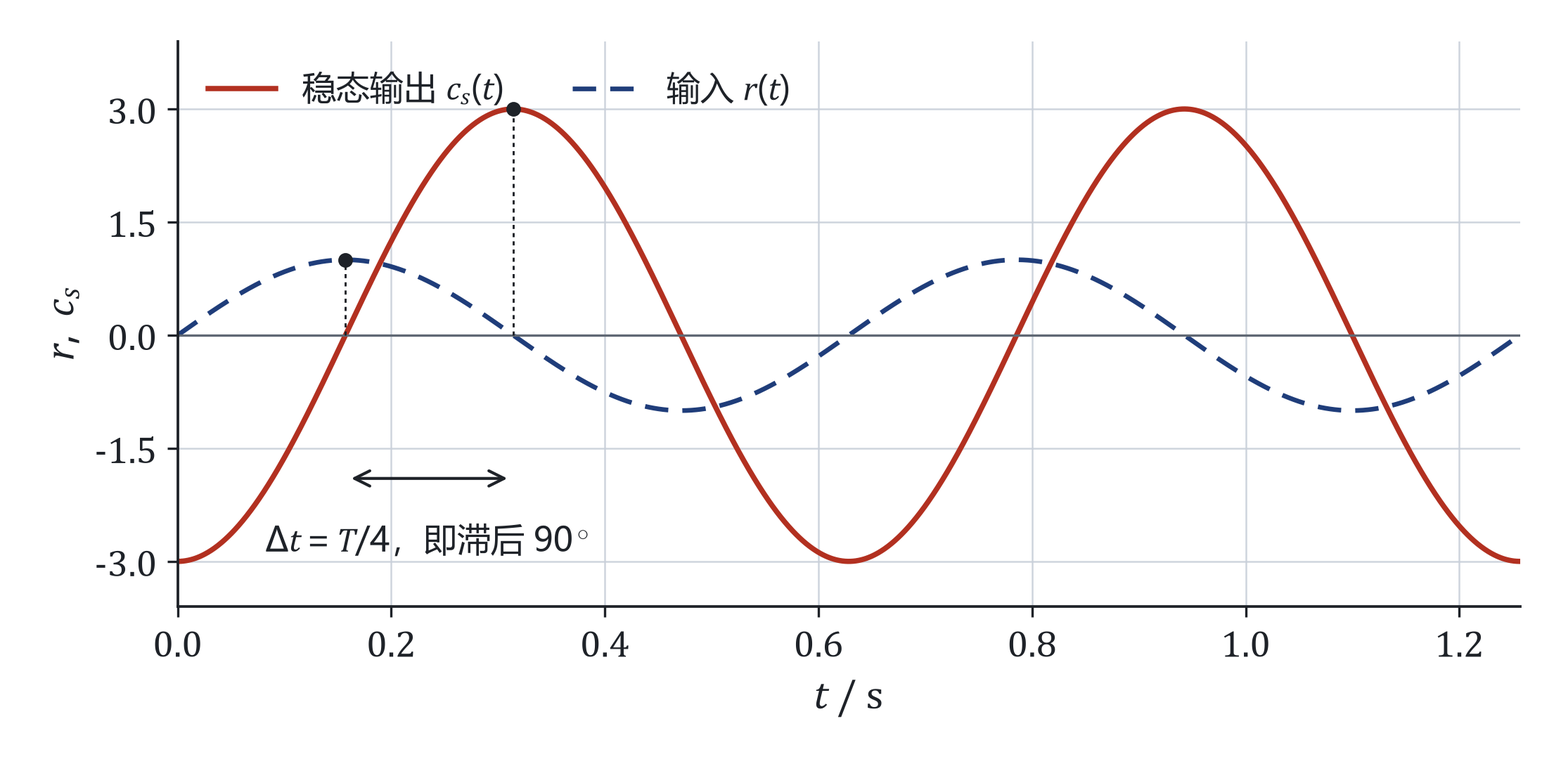
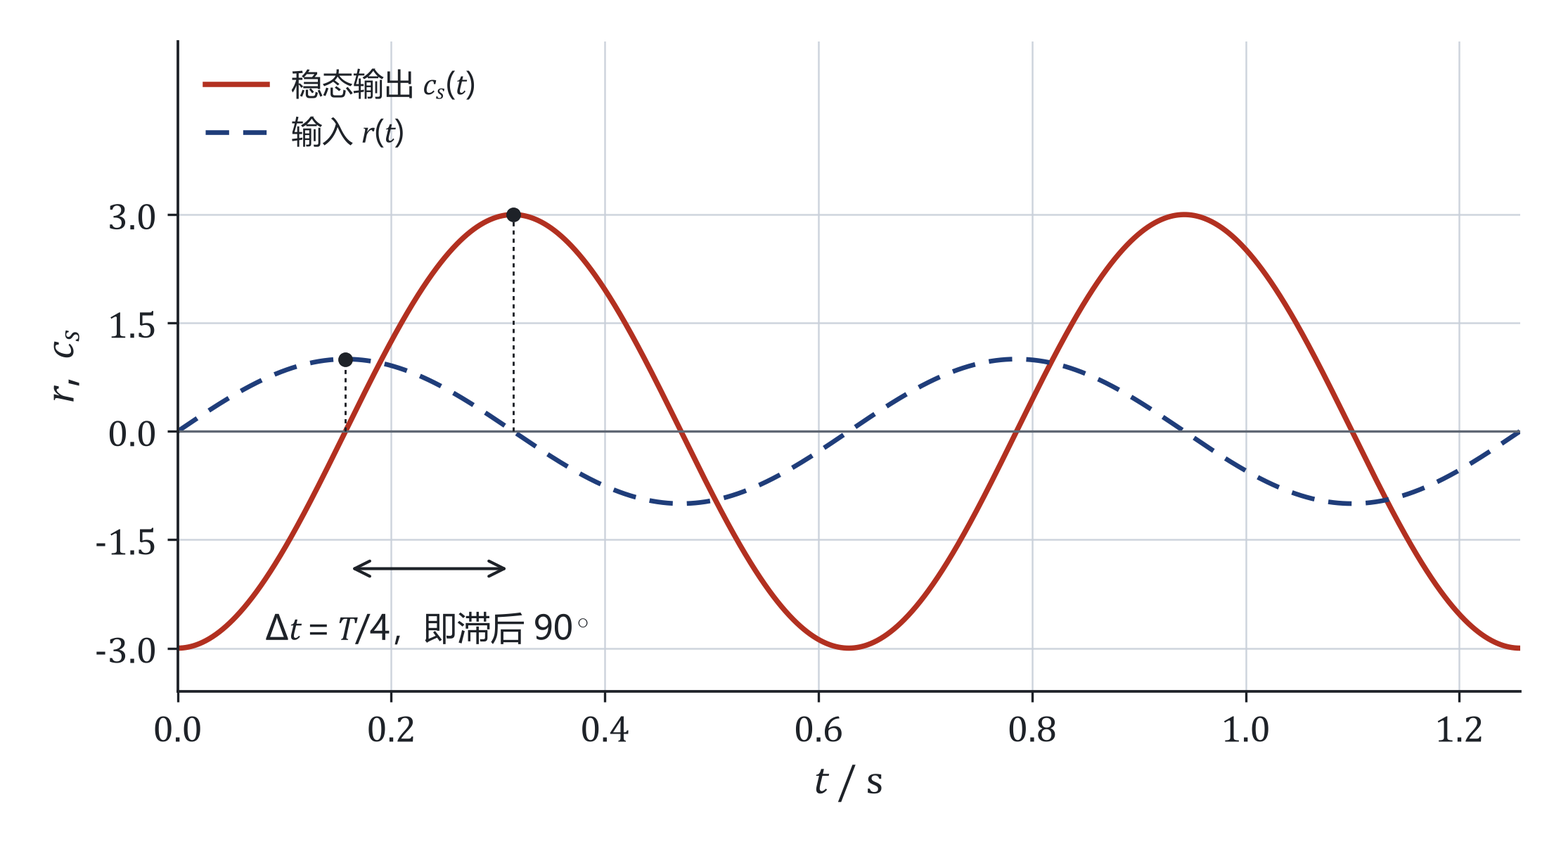
fix: 清掉剩余 9 张「标注压曲线」严重图（自检均 0 处）
上轮已修 29 张，本轮收尾清单里剩下的 9 张（单条遮挡不少于 100 采样点），
连同顺手清掉的若干轻微项，全部自检「问题 0 处」：

- 伯德-例512：ωg 竖线原来画在 3.162（那是含 0.1s+1 环节的另一道题的
  ωx，属误植），改由 ct.margin 取 wg = 1.732；ωc/ωg 两条竖线只隔
  0.15 dec，标签沉到幅频下部空带再用引线连回；γ 挪到相频右上空区。
- 图示法伯德图：斜率标签挪到曲线够不到的右上、右下空带；−3 dB 与 −45°
  拆到各自面板标注；幅相曲线的说明块右移，避开贯穿全高的纵轴。
- 零点组合 4 张：长文案拆两行是最省事的压线修法；Ⅰ型复零点对放弃图例
  （任何够宽的图例框都会压住低频竖渐近线或纵轴），改在图注里按颜色点名，
  说明块写到 set_aspect("equal") 留出的画布右侧空白里。
- 反求例525：坐标轴只有 157px 高，一个文字框折算下来有 18 dB 高，
  斜率标签必须沉到各段渐近线下方约 15 dB。
- 例527：图例双列宽 290px 会盖住 t 约 0.31 处的输出峰值，改单列并抬高顶部留白。
- 四种型别：图例从下左移到下右（左下被 Ⅰ 型的低频竖渐近线占着）。
- openloop-nyquist 14 张：Ⅰ型带零点加宽 xlim 给标签让位；Ⅱ型单惯性利用
  「曲线恒在 y 不小于 0」把说明放到下半部；0 型振荡的 ωn=1 标签由向下改向上抬。
- 二型补弧（108 点，最后一张）：(−1,j0) 标签下移到负实轴下方；
  补弧终点、正常支两张标签抬到上半部空区并加引线。

另：ch5-nyquist.py 与 nyquist-05-2-c.py 都在写「频域-奈氏-条件稳定.png」，
旧版会覆盖新版。已从旧脚本移除该图（改由带断言的 nyquist-05-2-c.py 生成）。

diff --git a/.scripts/figures/ch5-nyquist.py b/.scripts/figures/ch5-nyquist.py
@@ -4,7 +4,8 @@
   * 频域-奈氏-开环不稳定.png   —— 05-2-c 自编例一：K/[(s-1)(s+2)(s+3)]，K=8
   * 频域-奈氏-二型补弧.png     —— 05-2-c 自编例二：K/[s^2(s+1)]，K=1
   * 频域-奈氏-虚轴极点.png     —— 05-2-c 自编例三：(s+1)/(s^2+1)
-  * 频域-奈氏-条件稳定.png     —— 05-2-c 教材例5-8 形状示意（交点 -2/-1.5/-0.5）
+  * 频域-奈氏-条件稳定.png     —— 已迁到 nyquist-05-2-c.py（同名的示意图由该脚本生成，
+                                本脚本不再输出，避免两张脚本互相覆盖同一文件）
 
 图内文字**不混用中文与 `$…$`**（mathtext 接管整串会让中文掉字形），
 统一用「中文 + 纯文本数学」（ω、ν、∠、⁻ 等 Unicode 符号）。
@@ -23,7 +24,7 @@ fs.use_style()
 OUT = os.path.join(fs.REPO_ROOT, "附件")
 
 
-def axes(ax, lim, title, aspect=True):
+def axes(ax, lim, title, aspect=True, neg1_off=(7, 9)):
     if aspect:
         ax.set_aspect("equal", adjustable="box")
     ax.set_xlim(*lim[0])
@@ -37,7 +38,7 @@ def axes(ax, lim, title, aspect=True):
     ax.set_ylabel("虚部")
     ax.set_title(title, pad=8)
     ax.plot([-1], [0], marker="*", color=fs.PHA, markersize=13, zorder=6)
-    ax.annotate("(-1, j0)", xy=(-1, 0), xytext=(7, 9),
+    ax.annotate("(-1, j0)", xy=(-1, 0), xytext=neg1_off,
                 textcoords="offset points", color=fs.PHA, fontsize=11)
 
 
@@ -83,7 +84,7 @@ G = K / ((1j * w) ** 2 * (1j * w + 1))
 keep = np.abs(G) <= R                      # 只画落在示意弧以内的部分
 fig, ax = plt.subplots(figsize=(6.8, 5.8))
 axes(ax, ((-R - 0.6, R - 1.2), (-R + 1.8, R - 2.0)),
-      "自编例二   G = K/[s²(s+1)]，K = 1（Ⅱ 型）")
+      "自编例二   G = K/[s²(s+1)]，K = 1（Ⅱ 型）", neg1_off=(7, -20))
 ax.plot(G.real[keep], G.imag[keep], color=fs.MAG, linewidth=2.2,
         label="正频率支", zorder=4)
 # 原点补弧：半径随角度增大，示意「趋向无穷远」
@@ -93,10 +94,14 @@ ax.plot(rr * np.cos(th), rr * np.sin(th), color=fs.PHA, linewidth=1.8,
         linestyle=(0, (6, 4)), label="原点补弧（ν×90° = 180°，顺时针）", zorder=5)
 arrow(ax, rr[150] * np.cos(th[150]), rr[150] * np.sin(th[150]),
       0.5 * np.cos(th[150] - 1.2), 0.5 * np.sin(th[150] - 1.2), color=fs.PHA)
+# 正常支恒在第二象限、补弧恒在下半平面且下探到 y≈−3.8（被裁），
+# 所以「上半部左右两侧」是两张标签的空区，补弧终点标签也抬到左上再用引线连回
 ax.annotate("补弧终点", xy=(-R + 0.4, -0.2),
-            xytext=(-R - 0.3, -1.15), color=fs.PHA, fontsize=11.5)
-ax.annotate("正常支（恒在上半平面）", xy=(-2.6, 1.4), xytext=(-4.5, 1.05),
-            color=fs.MAG, fontsize=11.5)
+            xytext=(-R - 0.45, 2.25), color=fs.PHA, fontsize=11.5,
+            arrowprops=dict(arrowstyle="-", linewidth=0.8, color=fs.SUB))
+ax.annotate("正常支（恒在上半平面）", xy=(-2.6, 1.4), xytext=(0.30, 2.25),
+            color=fs.MAG, fontsize=11.5,
+            arrowprops=dict(arrowstyle="-", linewidth=0.8, color=fs.SUB))
 arrow(ax, G[700].real, G[700].imag, 0.10, 0.16)
 # 图例省去：线型含义写在笔记题注里
 save(fig, "频域-奈氏-二型补弧.png")
@@ -132,31 +137,3 @@ arrow(ax, G1[k1][-40].real, G1[k1][-40].imag, 0.10, 0.22)
 arrow(ax, G2[k2][40].real, G2[k2][40].imag, 0.04, -0.07)
 # 图例省去：线型含义写在笔记题注里
 save(fig, "频域-奈氏-虚轴极点.png")
-
-# ---------------------------------------------------------------- 例5-8 示意
-from scipy.interpolate import make_interp_spline
-
-# 形状示意：从下方上来 → 穿过 −2（自下而上，负）→ 穿回下方（−1.5，自上而下，正）
-# → 再穿过 −0.5（自下而上，负）→ 沿 +90° 方向收进原点
-knots_t = np.array([0.00, 0.12, 0.28, 0.40, 0.52, 0.66, 0.82, 0.93, 1.00])
-knots_x = np.array([-2.75, -2.30, -2.00, -1.78, -1.50, -1.06, -0.50, -0.22, -0.03])
-knots_y = np.array([-3.60, -1.40, 0.00, 0.42, 0.00, -0.45, 0.00, 0.30, 0.02])
-t = np.linspace(0, 1, 900)
-x = make_interp_spline(knots_t, knots_x, k=3)(t)
-y = make_interp_spline(knots_t, knots_y, k=3)(t)
-fig, ax = plt.subplots(figsize=(7.0, 6.0))
-axes(ax, ((-3.2, 1.0), (-4.2, 2.6)),
-      "教材例5-8 形状示意（K = 10、P = 0、ν = 1）", aspect=False)
-ax.plot(x, y, color=fs.MAG, linewidth=2.2, label="正频率支（形状示意）", zorder=4)
-for xv, lab, ty in ((-2.0, "ω₁：−2（自下而上，负穿越）", 1.85),
-                    (-1.5, "ω₂：−1.5（自上而下，正穿越）", -2.35),
-                    (-0.5, "ω₃：−0.5（自下而上，负穿越）", 0.95)):
-    ax.plot([xv], [0], marker="o", color=fs.PHA, markersize=6, zorder=6)
-    ax.annotate(lab, xy=(xv, 0), xytext=(-3.15, ty), color=fs.PHA, fontsize=11.5)
-arrow(ax, x[200], y[200], 0.10, 0.45)
-arrow(ax, x[430], y[430], 0.12, -0.22)
-arrow(ax, x[640], y[640], 0.10, 0.28)
-ax.annotate("三个交点坐标随 K 线性缩放：\nK₁ = 5，K₂ = 20/3，K₃ = 20",
-            xy=(0.05, -3.9), color=fs.INK, fontsize=11.5)
-ax.legend(loc="upper right", fontsize=11)
-save(fig, "频域-奈氏-条件稳定.png")

diff --git a/.scripts/figures/zero-combination-nyquist.py b/.scripts/figures/zero-combination-nyquist.py
@@ -17,7 +17,7 @@ import control as ct
 from scipy import signal
 
 import figures_style as fs
-from _nyquist_style import canvas, curve, response, point, note, finish
+from _nyquist_style import canvas, curve, response, point, note, finish, BOX
 
 s = ct.tf("s")
 W = np.geomspace(1e-4, 1e4, 20000)
@@ -172,9 +172,15 @@ def draw_zero_pair():
     curve(ax, G0L, W, (0.35, 1.1), fs.MAG, "左零点：φ 由 0° 到 -90°")
     curve(ax, G0R, W, (0.5, 1.3), fs.PHA, "右零点：φ 由 0° 到 -270°")
     point(ax, 1.0, r"$\omega=0$", (-58, 14), limit=True, color=fs.SUB)
-    point(ax, value_at(G0R, 2.0), r"$\omega=2$", (-14, -22))
+    # ω=2 的点落在曲线自己身上，标签就近摆放必然压线：抬到右上空区再用细引线连回
+    z2 = value_at(G0R, 2.0)
+    ax.plot(z2.real, z2.imag, "o", ms=5, color=fs.PHA, zorder=7)
+    ax.annotate(r"$\omega=2$", (z2.real, z2.imag), xytext=(0.62, 0.22),
+                fontsize=11, color=fs.PHA, bbox=BOX, zorder=8, ha="center",
+                va="center", arrowprops=dict(arrowstyle="-", linewidth=0.8,
+                                             color=fs.SUB))
     point(ax, 0, r"$\omega\to\infty$", (8, 10), limit=True)
-    note(ax, "起点同为 (1, 0)：多转半圈才到正虚轴", (0.035, 0.90))
+    note(ax, "起点同为 (1, 0)：\n多转半圈才到正虚轴", (0.035, 0.86))
     ax.legend(loc="lower left", fontsize=11, bbox_to_anchor=(0.02, 0.12))
     finish(fig, OUT / name, "两条曲线只在低频与高频渐近意义上互为镜像，实部并不处处相等。")
 
@@ -185,13 +191,18 @@ def draw_complex_pair():
                      r"$G_L=\frac{(s/4)^2+0.25s+1}{s(1+s)(1+2s)},\quad"
                      r"G_R=\frac{(s/4)^2-0.25s+1}{s(1+s)(1+2s)}$",
                      (-4.6, 1.1), (-5.6, 0.72), figsize=(7.0, 6.0))
-    curve(ax, GIL, W, (0.35, 1.4), fs.MAG, "左复零点对：φ 由 -270° 到 -90°")
-    curve(ax, GIR, W, (0.35, 1.4), fs.PHA, "右复零点对：φ 由 -90° 到 -450°")
-    point(ax, ZL_CROSS, "跨负实轴", (-16, 26))
+    curve(ax, GIL, W, (0.35, 1.4), fs.MAG, "左复零点对：−270°→−90°")
+    curve(ax, GIR, W, (0.35, 1.4), fs.PHA, "右复零点对：−90°→−450°")
+    point(ax, ZL_CROSS, "跨负实轴", (-40, 26))
     point(ax, 0, r"$\omega\to\infty$", (8, 10), limit=True)
-    note(ax, "复零点对按二阶计：Δm_eff = ±2", (0.035, 0.90))
-    ax.legend(loc="lower left", fontsize=11, bbox_to_anchor=(0.02, 0.12))
-    finish(fig, OUT / name, "低频竖渐近线同为 -K(T₁+T₂) = -3；左对抬 180°、右对再压 180°。")
+    # 两条曲线绕的圈几乎占满坐标轴，任何够宽的框都会压住低频竖渐近线或纵轴；
+    # 而 set_aspect("equal") 又把坐标轴压到画布中间（左右各留约 1/4 空白），
+    # 故放弃图例（改在图注里按颜色点名），说明块写到坐标轴右侧的那片画布留白里。
+    fig.text(0.985, 0.50, "复零点对\n按二阶计\nΔm_eff = ±2", ha="right", va="center",
+             fontsize=10.5, color=fs.SUB, bbox=BOX)
+    finish(fig, OUT / name,
+           "深蓝：左复零点对 −270°→−90°；赭红：右复零点对 −90°→−450°；"
+           "低频竖渐近线同为 −K(T₁+T₂) = −3。")
 
 
 def draw_out_of_table():
@@ -199,11 +210,12 @@ def draw_out_of_table():
     fig, ax = canvas("一阶全通（T = 1）", r"$G(s)=(1-s)/(1+s)$",
                      (-1.28, 1.28), (-1.30, 0.45), figsize=(6.6, 4.6))
     curve(ax, GAP, W, (0.35, 0.9, 2.3))
-    point(ax, 1.0, r"$\omega=0$", (-40, 12), limit=True, color=fs.SUB)
+    point(ax, 1.0, r"$\omega=0$", (-40, 28), limit=True, color=fs.SUB)
     point(ax, -1j, r"$\omega=1/T$", (8, -20))
     point(ax, -1.0, r"$\omega\to\infty$", (8, -20), limit=True)
-    note(ax, "幅值恒为 1：单位圆下半段", (0.035, 0.90))
-    note(ax, "相位由 0° 降到 -180°", (0.035, 0.80))
+    note(ax, "幅值恒为 1：\n单位圆下半段", (0.035, 0.88))
+    # 下半圆只在 y ≤ 0，且框整体右移到 x>0，绕开纵轴与圆的两个端点
+    note(ax, "相位由 0° 降到 -180°", (0.55, 0.80))
     finish(fig, OUT / name, "幅值恒为 1 但相位有界：与纯延迟同落单位圆，一个转半圈、一个永远绕。")
 
 
@@ -215,8 +227,9 @@ def draw_unstable_inertia():
     point(ax, 1.0, r"$\omega=0$", (-58, 12), limit=True, color=fs.SUB)
     point(ax, 1j, r"$\omega=1/T$", (8, 6))
     point(ax, 0, r"$\omega\to\infty$", (8, 10), limit=True)
-    note(ax, "第一象限：圆心 (1/2, 0)、半径 1/2 的上半圆", (0.035, 0.035))
-    note(ax, "相位由 0° 升到 +90°（P = 1）", (0.035, 0.96))
+    # 上半圆只占 y ∈ [0, 0.5]，且两块说明都右移到 x>0，绕开贯穿全高的纵轴
+    note(ax, "第一象限：圆心 (1/2, 0)、\n半径 1/2 的上半圆", (0.45, 0.04))
+    note(ax, "相位由 0° 升到 +90°（P = 1）", (0.23, 0.92))
     finish(fig, OUT / name, "相频与惯性环节互反；开环右半极点数 P = 1，判稳须按完整奈氏计数。")
 
 

diff --git a/.scripts/figures/ch5-legacy-bode.py b/.scripts/figures/ch5-legacy-bode.py
@@ -33,12 +33,15 @@ def fdata(sys, w):
 
 
 # ---------------- 例5-12：K/(s+1)^3 ----------------
+# 相频 φ = −3 arctan(ω)，令 φ = −180° ⟹ ω = √3 = 1.732（原脚本把 √10 = 3.162 误植进来，
+# √10 是含 0.1s+1 环节的另一道题的 ωx，与本例无关；现统一由 ct.margin 取 wg，不再写死）
 w = np.logspace(-1, 2, 3000)
 fig, (axm, axp) = fs.new_bode_axes(figsize=(6.6, 6.4))
 for ax in (axm, axp):
     ax.set_xscale("log")
     ax.set_xlim(w[0], w[-1])
     fs.tidy(ax)
+wc4 = wg4 = None
 for K, color, ls in ((4, fs.MAG, "-"), (10, fs.PHA, (0, (6, 4)))):
     sys = ct.tf([K], np.polymul([1, 1], np.polymul([1, 1], [1, 1])))
     mag, pha = fdata(sys, w)
@@ -48,16 +51,20 @@ for K, color, ls in ((4, fs.MAG, "-"), (10, fs.PHA, (0, (6, 4)))):
           % (K, wc, pm, wg, gm, 20 * np.log10(gm)))
     if K == 4:
         axp.plot(w, pha, color=fs.PHA, linewidth=2.0)
+        wc4, wg4, pm4 = float(wc), float(wg), float(pm)
+        pha_wc4 = float(np.interp(np.log(wc), np.log(w), pha))
         axm.axvline(wc, color=fs.SUB, linewidth=0.9, linestyle=(0, (4, 3)))
         axp.axvline(wc, color=fs.SUB, linewidth=0.9, linestyle=(0, (4, 3)))
-        axm.annotate("ωc = %.3f" % wc, xy=(wc, 16), xytext=(6, 0),
-                     textcoords="offset points", color=fs.INK, fontsize=11)
-        axp.annotate("γ = %.1f°" % pm, xy=(wc, -180), xytext=(8, -22),
-                     textcoords="offset points", color=fs.PHA, fontsize=11)
-axm.axvline(3.162, color=fs.SUB, linewidth=0.9, linestyle=(0, (2, 3)))
-axp.axvline(3.162, color=fs.SUB, linewidth=0.9, linestyle=(0, (2, 3)))
-axm.annotate("ωg = 1.732", xy=(1.732, 8), xytext=(-8, 0), textcoords="offset points",
-             color=fs.SUB, fontsize=10.5, ha="right")
+axm.axvline(wg4, color=fs.SUB, linewidth=0.9, linestyle=(0, (2, 3)))
+axp.axvline(wg4, color=fs.SUB, linewidth=0.9, linestyle=(0, (2, 3)))
+# 两条竖线只隔 0.15 dec，标签必须分开放：都沉到幅频图下部的空带（曲线在该段已降到 −20 dB 以下），
+# 再用细引线连回各自的交点；引线全程走在曲线下方，不会横穿。
+axm.annotate("ωc = %.3f" % wc4, xy=(wc4, 0.0), xytext=(0.70, -66),
+             color=fs.INK, fontsize=11, ha="center", va="center",
+             arrowprops=dict(arrowstyle="-", linewidth=0.8, color=fs.SUB))
+axm.annotate("ωg = %.3f" % wg4, xy=(wg4, -6.02), xytext=(2.90, -66),
+             color=fs.SUB, fontsize=10.5, ha="center", va="center",
+             arrowprops=dict(arrowstyle="-", linewidth=0.8, color=fs.SUB))
 axp.annotate("两种 K 的相频相同", xy=(0.02, 0.06), xycoords="axes fraction",
              color=fs.SUB, fontsize=10.5)
 axm.axhline(0, color=fs.SUB, linewidth=0.9, linestyle=(0, (4, 3)))
@@ -66,6 +73,10 @@ axp.axhline(-180, color=fs.SUB, linewidth=0.9, linestyle=(0, (4, 3)))
 axm.set_ylim(-75, 25)
 axp.set_ylim(-300, 0)
 axp.set_yticks([-270, -180, -90, 0])
+# γ 落在相频曲线的右上空区（曲线在 ω>1 已降到 −155° 以下，右上整片够不到），引线连回曲线上的点
+axp.annotate("γ = %.1f°" % pm4, xy=(wc4, pha_wc4), xytext=(9.0, -60),
+             color=fs.PHA, fontsize=11, ha="left", va="center",
+             arrowprops=dict(arrowstyle="-", linewidth=0.8, color=fs.SUB))
 axm.legend(loc="lower left", fontsize=11)
 fig.suptitle("例5-12  G = K/(s+1)³：K = 4 与 K = 10", fontsize=13, y=0.97)
 save(fig, "伯德-例512.png")

diff --git a/.scripts/figures/openloop-nyquist.py b/.scripts/figures/openloop-nyquist.py
@@ -85,7 +85,7 @@ def verify():
 
 def shape(name, title, formula, system, limits, arrows, phase, start=None,
           crossing=None, asymptote=None, note_text=None, figsize=(6.6,6.0),
-          phase_pos=(0.025,0.03), asym_pos=(0.025,0.9)):
+          phase_pos=(0.025,0.03), asym_pos=(0.025,0.9), note_pos=(0.025,0.8)):
     """phase_pos / asym_pos 可以逐图覆盖：左下角常常正好是曲线出发的地方，
     相角说明放那儿必然压曲线；渐近线标签放太靠左又会骑到竖线上。"""
     if not selected(name):
@@ -103,7 +103,7 @@ def shape(name, title, formula, system, limits, arrows, phase, start=None,
         point(ax, value, label, offset)
     note(ax, phase, phase_pos)
     if note_text:
-        note(ax, note_text, (0.025,0.8))
+        note(ax, note_text, note_pos)
     finish(fig, OUT/name)
 
 
@@ -130,13 +130,14 @@ def draw_shapes():
           phase_pos=(0.20,0.75), asym_pos=(0.16,0.90))
     shape("频域-奈氏-Ⅰ型带零点.png", "Ⅰ型：带零点（τ = 4，T₁ = 1，T₂ = 2）",
           r"$G(s)=(1+4s)/[s(1+s)(1+2s)]$", GIZ,
-          ((-1.4,1.6),(-8.0,0.6)), (0.16,0.35,1.4),
+          ((-2.2,2.0),(-8.0,0.6)), (0.16,0.35,1.4),
           r"$\varphi:-90^\circ\to-180^\circ$", asymptote=1,
-          figsize=(5.5,8.7))
+          figsize=(5.5,8.7), phase_pos=(0.012,0.03))
     shape("频域-奈氏-Ⅱ型单惯性.png", "Ⅱ型：单惯性（K = 1，T = 1）",
           r"$G(s)=1/[s^2(1+s)]$", GII1, ((-4.1,0.7),(-0.65,2.4)), (0.52,1.05),
           r"$\varphi:-180^\circ\to-270^\circ$",
-          note_text="低频端在第二象限，延伸至图外")
+          # Ⅱ型单惯性整条曲线都在 y ≥ 0（从 −180° 转到 −270°），所以画面下半部的横带是空的
+          note_text="低频端在第二象限，延伸至图外", note_pos=(0.44,0.05))
     shape("频域-奈氏-Ⅱ型双惯性.png", "Ⅱ型：双惯性（K = 1，T₁ = 1，T₂ = 2）",
           r"$G(s)=1/[s^2(1+s)(1+2s)]$", GII2,
           ((-4.8,1.6),(-0.9,5.1)), (0.38,0.8),
@@ -145,8 +146,9 @@ def draw_shapes():
     shape("频域-奈氏-0型振荡.png", "0 型：振荡环节（K = 1，ωₙ = 1，ζ = 0.5）",
           r"$G(s)=1/(s^2+s+1)$", GOSC,
           ((-0.6,1.4),(-1.4,0.45)), (0.5,1.45),
-          r"$\varphi:0^\circ\to-180^\circ$", start=1,
-          crossing=(-1j,r"$\omega_n=1$",(10,-20)))
+          r"$\varphi:0^\circ\to-180^\circ$", start=1, phase_pos=(0.42,0.03),
+          # ωₙ=1 的点正落在曲线最低处，标签改向上抬、避开曲线（原来向下摆会压在曲线上）
+          crossing=(-1j,r"$\omega_n=1$",(12,16)))
 
 
 def draw_type1_example():
@@ -156,7 +158,7 @@ def draw_type1_example():
                      (-17.2,3.0),(-16.0,3.8))
     curve(ax, GEX1, W, (0.18,0.46,1.1))
     ax.axvline(-15, color=fs.SUB, lw=1.2, ls=(0,(4,3)))
-    note(ax, r"$\mathrm{Re}\,G\to-15$", (0.025,0.88))
+    note(ax, r"$\mathrm{Re}\,G\to-15$", (0.50,0.92))
     point(ax, -10/3, r"$(-10/3,\,0)$", (-80,18))
     point(ax, 0, r"$\omega\to\infty$", (7,14), limit=True)
     note(ax, r"$\omega_x=1/\sqrt{2}$", (0.48,0.19))

diff --git a/.scripts/figures/ch5-three-plots.py b/.scripts/figures/ch5-three-plots.py
@@ -42,9 +42,10 @@ ax.plot(0.5 + 0.5 * np.cos(th), 0.5 * np.sin(th), color=fs.SUB,
 ax.plot([0.5], [0], marker="x", color=fs.SUB, markersize=6)
 ax.annotate("ω = 0", xy=(1, 0), xytext=(1.06, -0.07), color=fs.INK, fontsize=11)
 ax.annotate("ω → ∞", xy=(0, 0), xytext=(-0.30, -0.07), color=fs.INK, fontsize=11)
-ax.annotate("圆心 (0.5, 0)、半径 0.5 的半圆", xy=(0.5, -0.5), xytext=(-0.22, -0.78),
-            color=fs.SUB, fontsize=10.5)
-ax.annotate("", xy=(0.33, -0.30), xytext=(0.45, -0.21),
+# 说明块放正下方空带：半圆最低只到 −0.5，且整块右移到 x>0.1 之外，避免压住 x=0 纵轴
+ax.annotate("圆心 (0.5, 0)、半径 0.5 的半圆", xy=(0.5, -0.5), xytext=(0.45, -0.82),
+            color=fs.SUB, fontsize=10.5, ha="center")
+ax.annotate("", xy=(0.5, -0.52), xytext=(0.45, -0.74),
             arrowprops=dict(arrowstyle="-|>", color=fs.MAG, lw=1.7, mutation_scale=14))
 ax.set_aspect("equal", adjustable="box")
 ax.set_xlim(-0.3, 1.2)
@@ -73,11 +74,19 @@ ax2.set_yticks([0, -45, -90])
 ax.axhline(0, color=fs.SUB, linewidth=0.9, linestyle=(0, (4, 3)))
 ax.axvline(2, color=fs.SUB, linewidth=0.9, linestyle=(0, (4, 3)))
 ax2.axvline(2, color=fs.SUB, linewidth=0.9, linestyle=(0, (4, 3)))
-ax.annotate("转折频率 1/T = 2", xy=(2, 6), xytext=(-6, 0), textcoords="offset points",
-            color=fs.SUB, fontsize=10.5)
-ax.annotate("−20 dB/dec", xy=(24, -30), color=fs.MAG, fontsize=11)
-ax.annotate("ω = 2 处：−3 dB、−45°", xy=(2, -3), xytext=(16, -34),
-            textcoords="offset points", color=fs.INK, fontsize=10.5)
+# 标注一律走曲线够不到的空区：幅频曲线在 ω>10 已降到 −15 dB 以下，
+# 于是「右上（y 高）」和「右下（y 低）」各有一整条空带可用，再用细引线连回目标点。
+ax.annotate("转折频率 1/T = 2", xy=(2, 5), xytext=(1.15, 5.5),
+            color=fs.SUB, fontsize=10.5, ha="right")
+ax.annotate("ω = 2 处 L = −3 dB", xy=(2, -3), xytext=(14, -5),
+            color=fs.INK, fontsize=10.5, ha="left", va="center",
+            arrowprops=dict(arrowstyle="-", linewidth=0.8, color=fs.SUB))
+ax.annotate("−20 dB/dec", xy=(40, -26.0), xytext=(40, -46),
+            color=fs.MAG, fontsize=11, ha="center", va="center",
+            arrowprops=dict(arrowstyle="-", linewidth=0.8, color=fs.SUB))
+ax2.annotate("ω = 2 处 φ = −45°", xy=(2, -45), xytext=(11, -10),
+             color=fs.PHA, fontsize=10.5, ha="left", va="center",
+             arrowprops=dict(arrowstyle="-", linewidth=0.8, color=fs.SUB))
 fig.suptitle("对数频率特性（伯德图）：上幅频、下相频，共用横轴 lgω", fontsize=13, y=0.97)
 save(fig, "频域-图示法-伯德图.png")
 

diff --git a/.scripts/figures/ch5-ex527-osc-steady.py b/.scripts/figures/ch5-ex527-osc-steady.py
@@ -18,7 +18,7 @@ t = np.linspace(0, 2 * T, 2000)
 r = np.sin(W * t)
 c = GAIN * np.sin(W * t - np.pi / 2)
 
-fig, ax = plt.subplots(figsize=(7.4, 3.6))
+fig, ax = plt.subplots(figsize=(7.4, 4.0))
 
 ax.plot(t, c, color=fs.PHA, linewidth=1.8, label=r"$\mathrm{稳态输出}\ c_s(t)$")
 ax.plot(t, r, color=fs.MAG, linewidth=1.6, linestyle=(0, (5, 3)),
@@ -43,13 +43,14 @@ ax.vlines([t_r, t_c], 0, [1.0, 3.0], color=fs.INK, linewidth=0.7,
 
 ax.set_xlabel(r"$t$ / s")
 ax.set_ylabel(r"$r,\ c_s$")
-ax.set_ylim(-3.6, 3.9)
+ax.set_ylim(-3.6, 5.4)
 ax.set_yticks([-3, -1.5, 0, 1.5, 3])
 ax.set_xlim(0, t[-1])
 ax.grid(True, color=fs.GRID, linewidth=0.6, alpha=0.9)
 for side in ("top", "right"):
     ax.spines[side].set_visible(False)
-ax.legend(loc="upper left", ncol=2, fontsize=11.5)
+# 图例改单列：双列宽到 290px，横着铺开会盖住 t≈0.31 处输出曲线的峰值（幅值 3）
+ax.legend(loc="upper left", ncol=1, fontsize=10.5)
 
 fig.tight_layout()
 fs.save(fig, "频域-例527-稳态输出.png")

diff --git a/.scripts/figures/freq-inverse-ex525-bode.py b/.scripts/figures/freq-inverse-ex525-bode.py
@@ -69,7 +69,9 @@ ax_m.annotate("基准点 (1, 40 dB)", (1.0, 40.0), xytext=(10, 8),
               textcoords="offset points", fontsize=12, color=fs.MAG,
               bbox=dict(facecolor="white", edgecolor="none", alpha=0.95, pad=1.2), zorder=7)
 
-for x, y, txt in [(0.06, 72, "-20"), (0.33, 52, "-40"), (0.72, 41, "-20"), (2.2, 16, "-60")]:
+# 斜率标签一律沉到各段渐近线的下方约 15 dB：本图坐标轴只有 157px 高，
+# 一个 20px 的文字框折算下来有 18 dB 高，贴着渐近线放必然同时压住渐近线、低频延长线和精确曲线。
+for x, y, txt in [(0.06, 72, "-20"), (0.33, 21, "-40"), (0.72, 11, "-20"), (2.2, -24, "-60")]:
     ax_m.text(x, y, txt, fontsize=11, color=fs.SUB, ha="center", family=FAM,
               bbox=dict(facecolor="white", edgecolor="none", alpha=0.9, pad=0.8))
 

diff --git a/.scripts/figures/type-family-compare.py b/.scripts/figures/type-family-compare.py
@@ -79,7 +79,8 @@ ax.set_xlabel(r"$\mathrm{Re}$", fontsize=14, labelpad=6)
 ax.set_ylabel(r"$\mathrm{Im}$", fontsize=14, labelpad=14)
 ax.set_xticks([-1, 0, 1])
 ax.set_yticks([-1, 0, 1])
-ax.legend(loc="lower left", fontsize=11.5, handlelength=2.4)
+# 图例走右下角：左下被 Ⅰ 型的低频竖渐近线（实部 ≈ −(T₁+T₂) = −1.2）占着，放那儿必压
+ax.legend(loc="lower right", fontsize=11.5, handlelength=2.4)
 ax.set_title("同一副两惯性极点、只改型别 ν 的四条幅相曲线\n"
              "T1 = 1，T2 = 0.2，K = 1；ν 越大越贴原点，只看进来的方向与收尾的象限",
              fontsize=12, color=fs.INK, pad=10, family=FAM)

diff --git a/.scripts/figures/nyquist-type2-parameter.py b/.scripts/figures/nyquist-type2-parameter.py
@@ -100,7 +100,8 @@ def draw():
     ax.plot(-1,0,marker="x",color=fs.INK,markersize=7,zorder=8)
     ax.annotate(r"$(-1,\,0)$",(-1,0),xytext=(-53,-44),textcoords="offset points",
                 fontsize=11,color=fs.INK,bbox=BOX,zorder=9)
-    point(ax,0,r"$\omega\to\infty$",(-10,-25),limit=True)
+    # 原点就在纵轴上，标签向左摆会骑在纵轴上：右移十几像素放到原点的正下方
+    point(ax,0,r"$\omega\to\infty$",(3,-25),limit=True)
     note(ax,r"$\omega_x=1/(2\sqrt{2})$",(0.045,0.82))
     note(ax,r"$N=-1,\qquad Z=2$",(0.05,0.10))
     out=Path(os.environ.get("FIGURE_OUT",fs.ATTACH_DIR/"频域-奈氏-习题5-9原题.png"))
